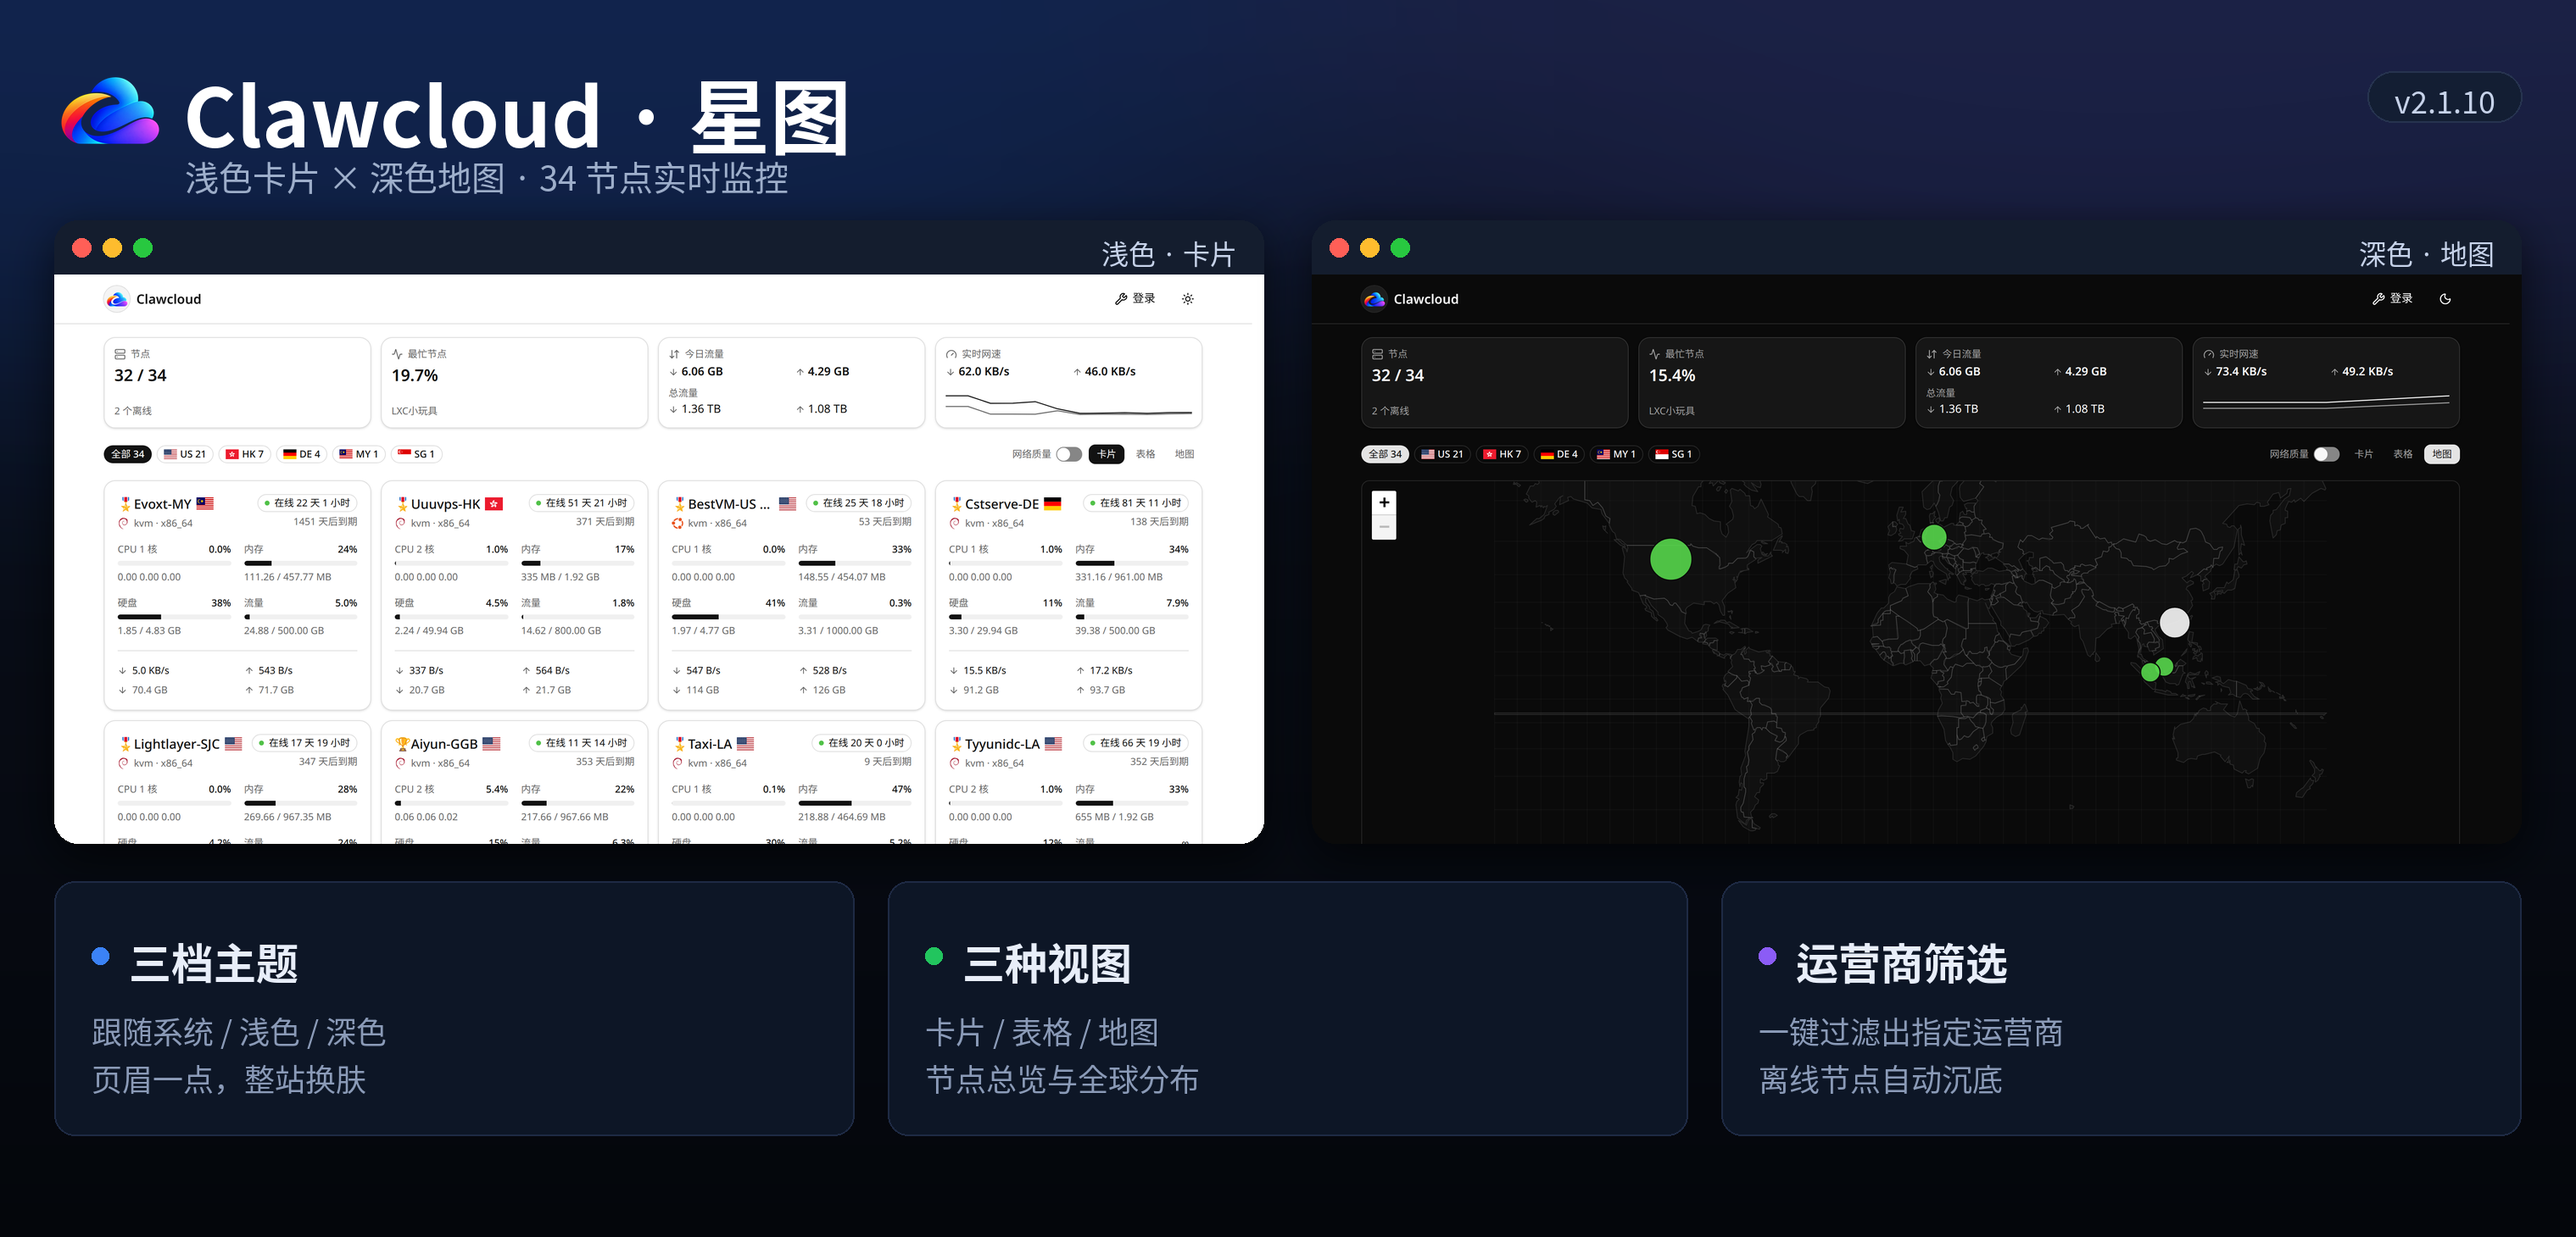
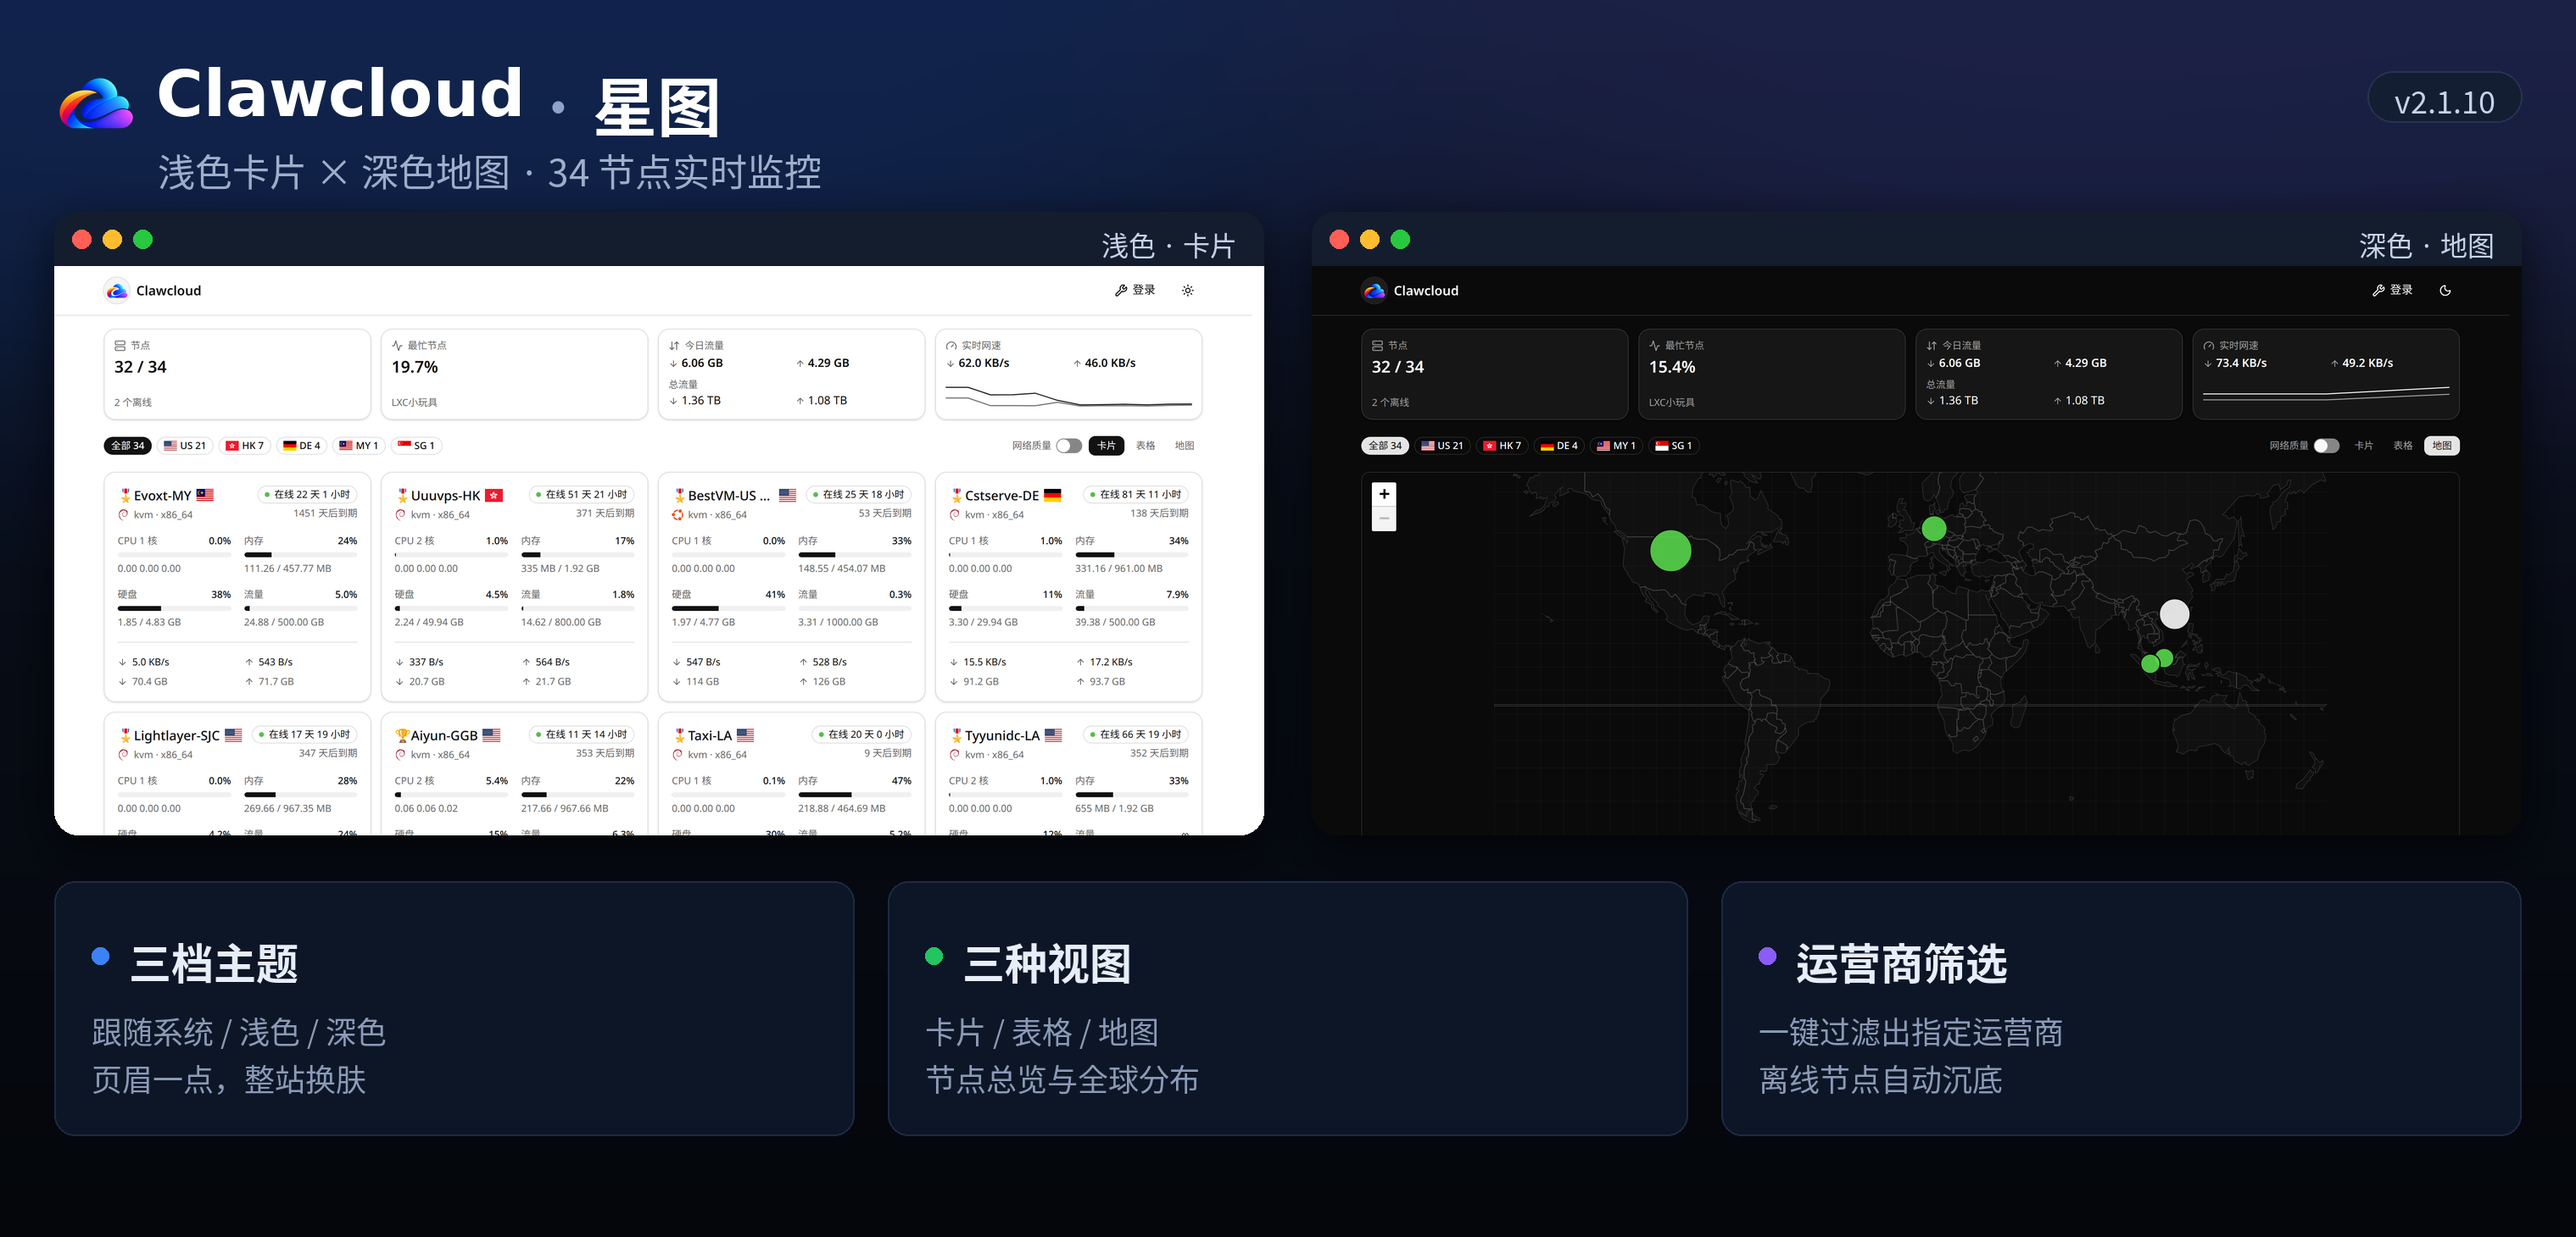
docs: preview.png 页眉收小改协调（DejaVu 拉丁字 + 标题 76px）

diff --git a/.agents/skills/theme-preview/scripts/design-windows.py b/.agents/skills/theme-preview/scripts/design-windows.py
@@ -94,13 +94,22 @@ def main():
     canvas.alpha_composite(glow)
 
     d = ImageDraw.Draw(canvas, "RGBA")
-    # header: logo + title + tagline
-    logo = Image.open(args.logo).convert("RGBA").resize((128, 128), Image.LANCZOS)
-    canvas.alpha_composite(logo, (64, 64))
-    f_title = font(CJK_BOLD, 96)
-    d.text((216, 62), "Clawcloud · 星图", font=f_title, fill=(255, 255, 255, 255))
-    f_tag = font(CJK_REG, 40)
-    d.text((218, 178), args.tagline, font=f_tag, fill=(159, 176, 204, 255))
+    # header: logo + title + tagline. Keep the lockup modest: the old 96px
+    # title + 128px rainbow logo overpowered the windows below. Latin wordmark
+    # in DejaVu Bold (cleaner Latin glyphs than Noto CJK's), CJK in Noto Bold,
+    # title/tagline ratio ~1.7 instead of 2.4 so the two lines sit together.
+    logo = Image.open(args.logo).convert("RGBA").resize((96, 96), Image.LANCZOS)
+    canvas.alpha_composite(logo, (64, 72))
+    f_lat = font("/usr/share/fonts/truetype/dejavu/DejaVuSans-Bold.ttf", 76)
+    f_cjk = font(CJK_BOLD, 76)
+    tx, ty = 184, 66
+    d.text((tx, ty), "Clawcloud", font=f_lat, fill=(255, 255, 255, 255))
+    x1 = tx + d.textlength("Clawcloud", font=f_lat)
+    d.text((x1, ty), " · ", font=f_cjk, fill=(143, 163, 200, 255))
+    x2 = x1 + d.textlength(" · ", font=f_cjk)
+    d.text((x2, ty), "星图", font=f_cjk, fill=(255, 255, 255, 255))
+    f_tag = font(CJK_REG, 44)
+    d.text((186, 168), args.tagline, font=f_tag, fill=(159, 176, 204, 255))
     # version pill, top right
     f_ver = font(CJK_REG, 36)
     ver = args.version
@@ -113,7 +122,7 @@ def main():
     # windows
     light = Image.open(args.light).convert("RGB")
     dark = Image.open(args.dark).convert("RGB")
-    wy = 260
+    wy = 250
     for x, shot, label in [(64, light, "浅色 · 卡片"), (1547, dark, "深色 · 地图")]:
         shadow = Image.new("RGBA", (W, H), (0, 0, 0, 0))
         sd = ImageDraw.Draw(shadow)
